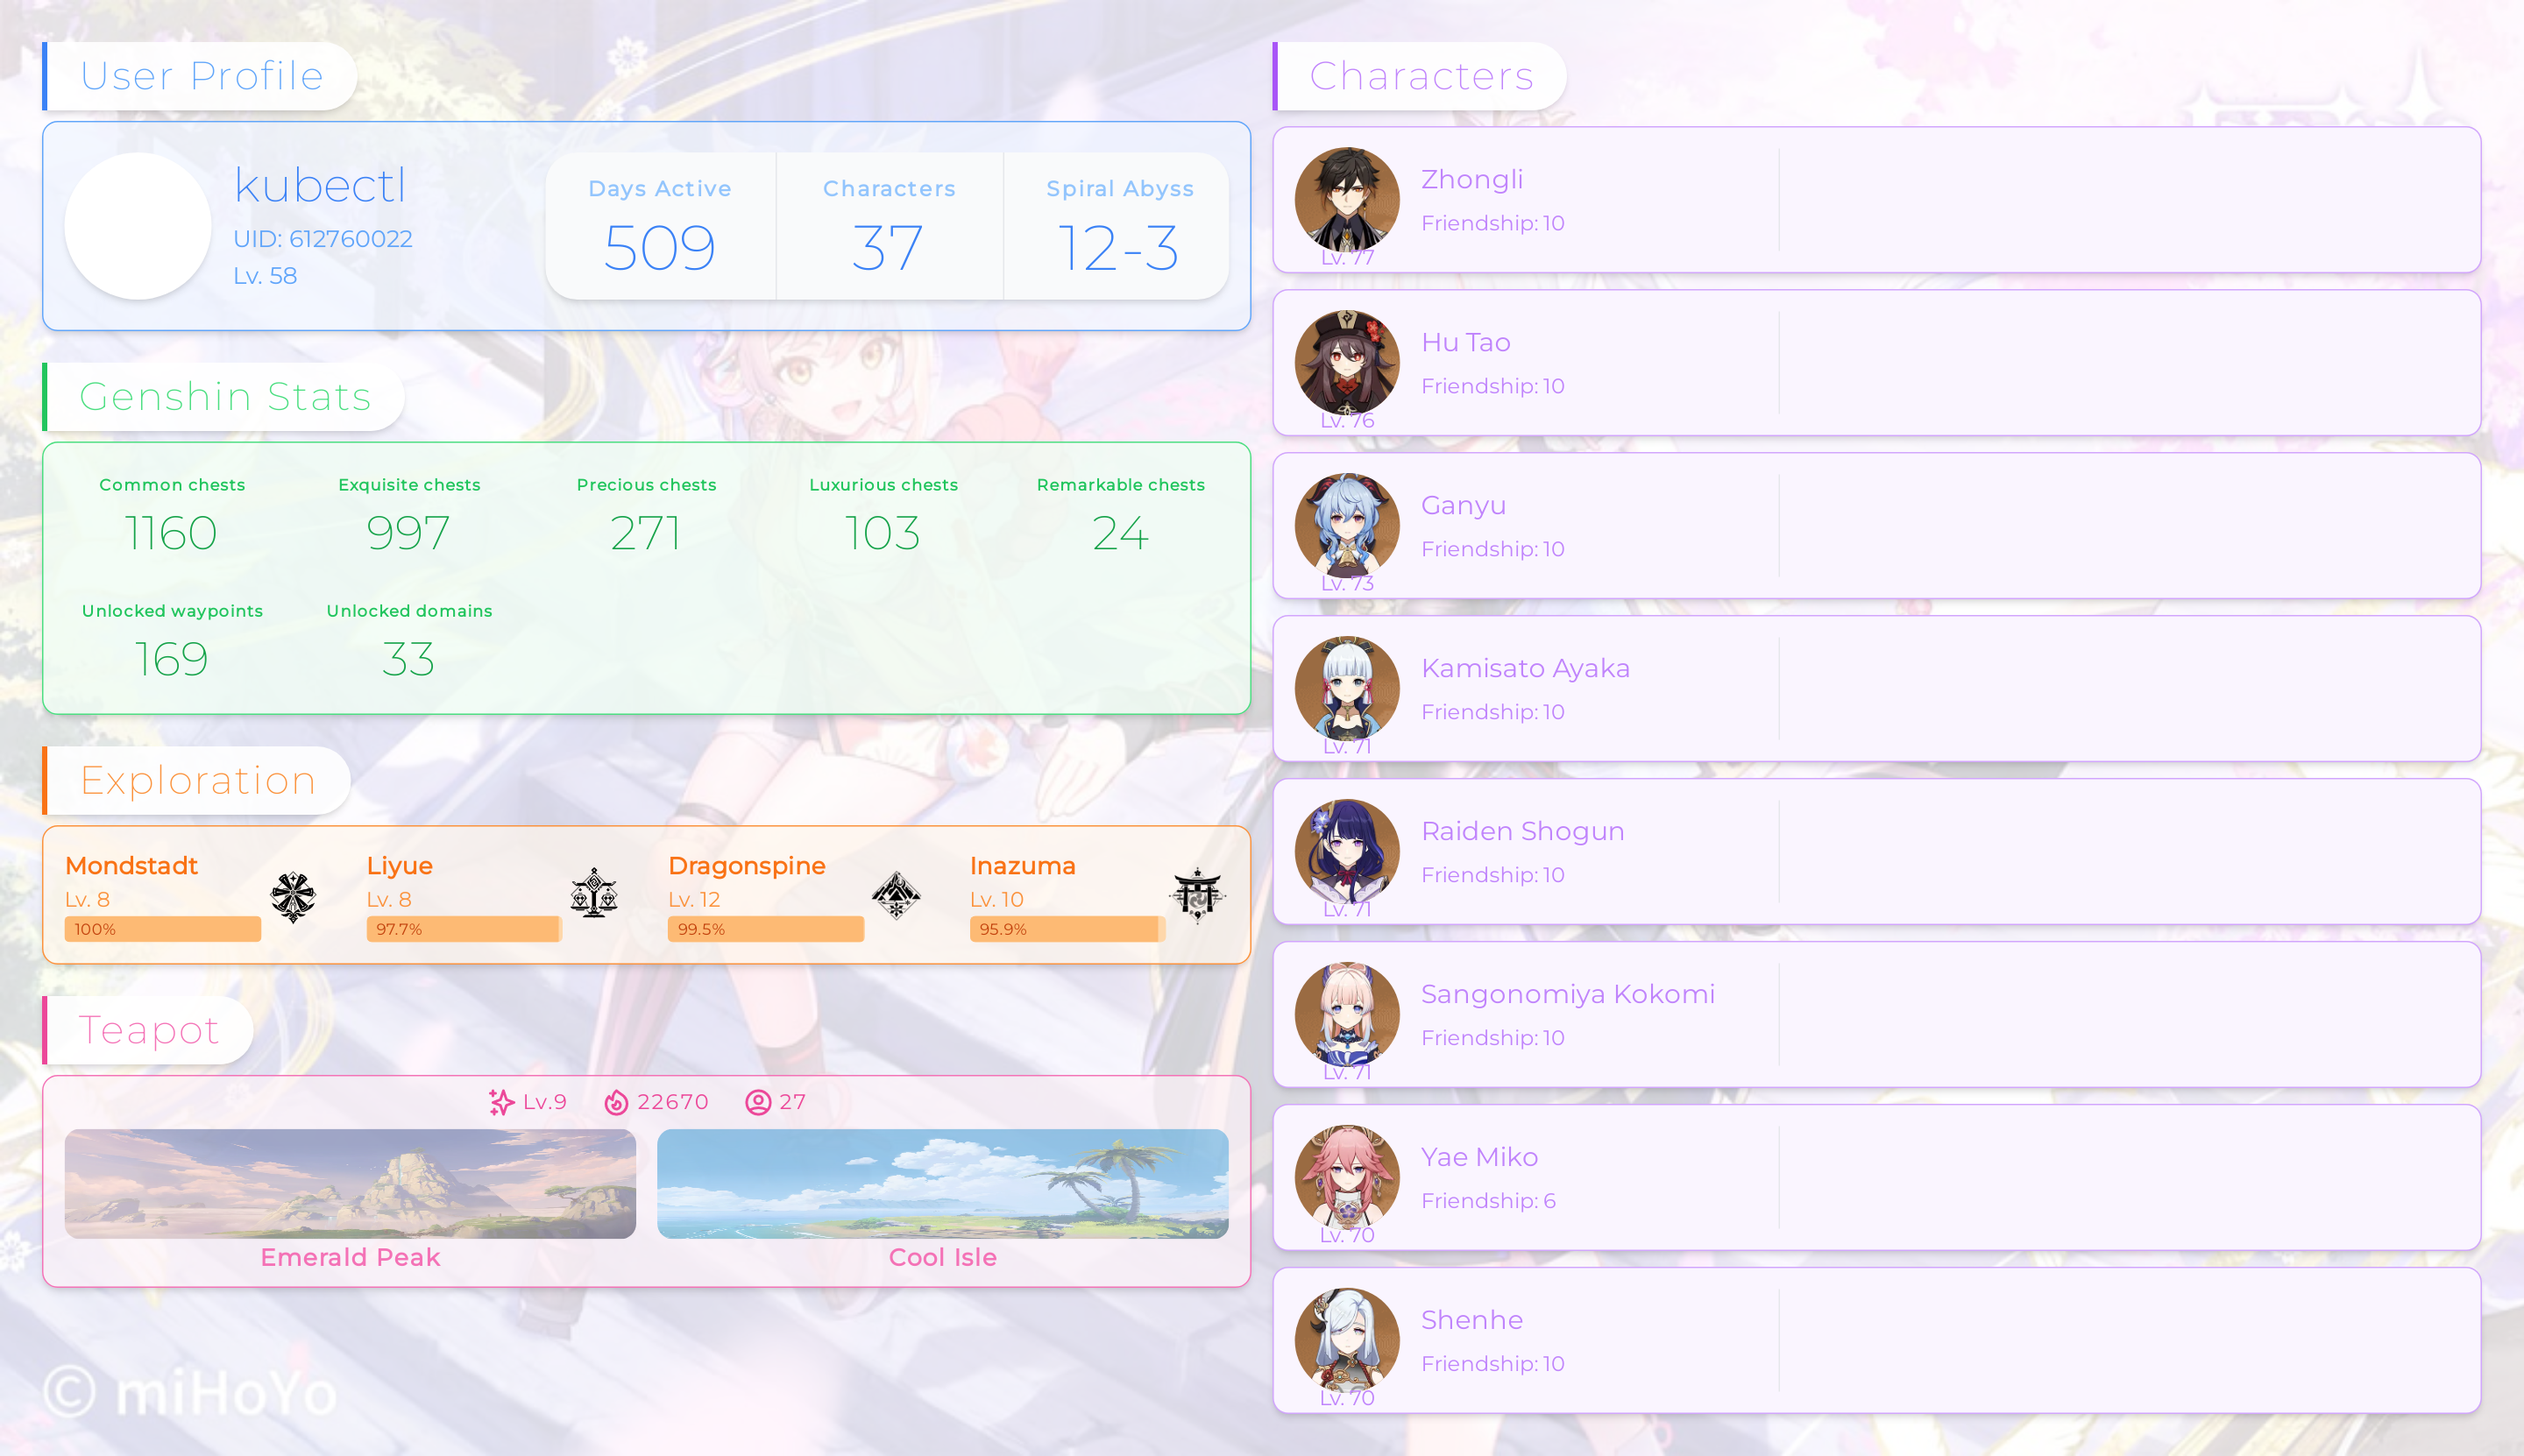
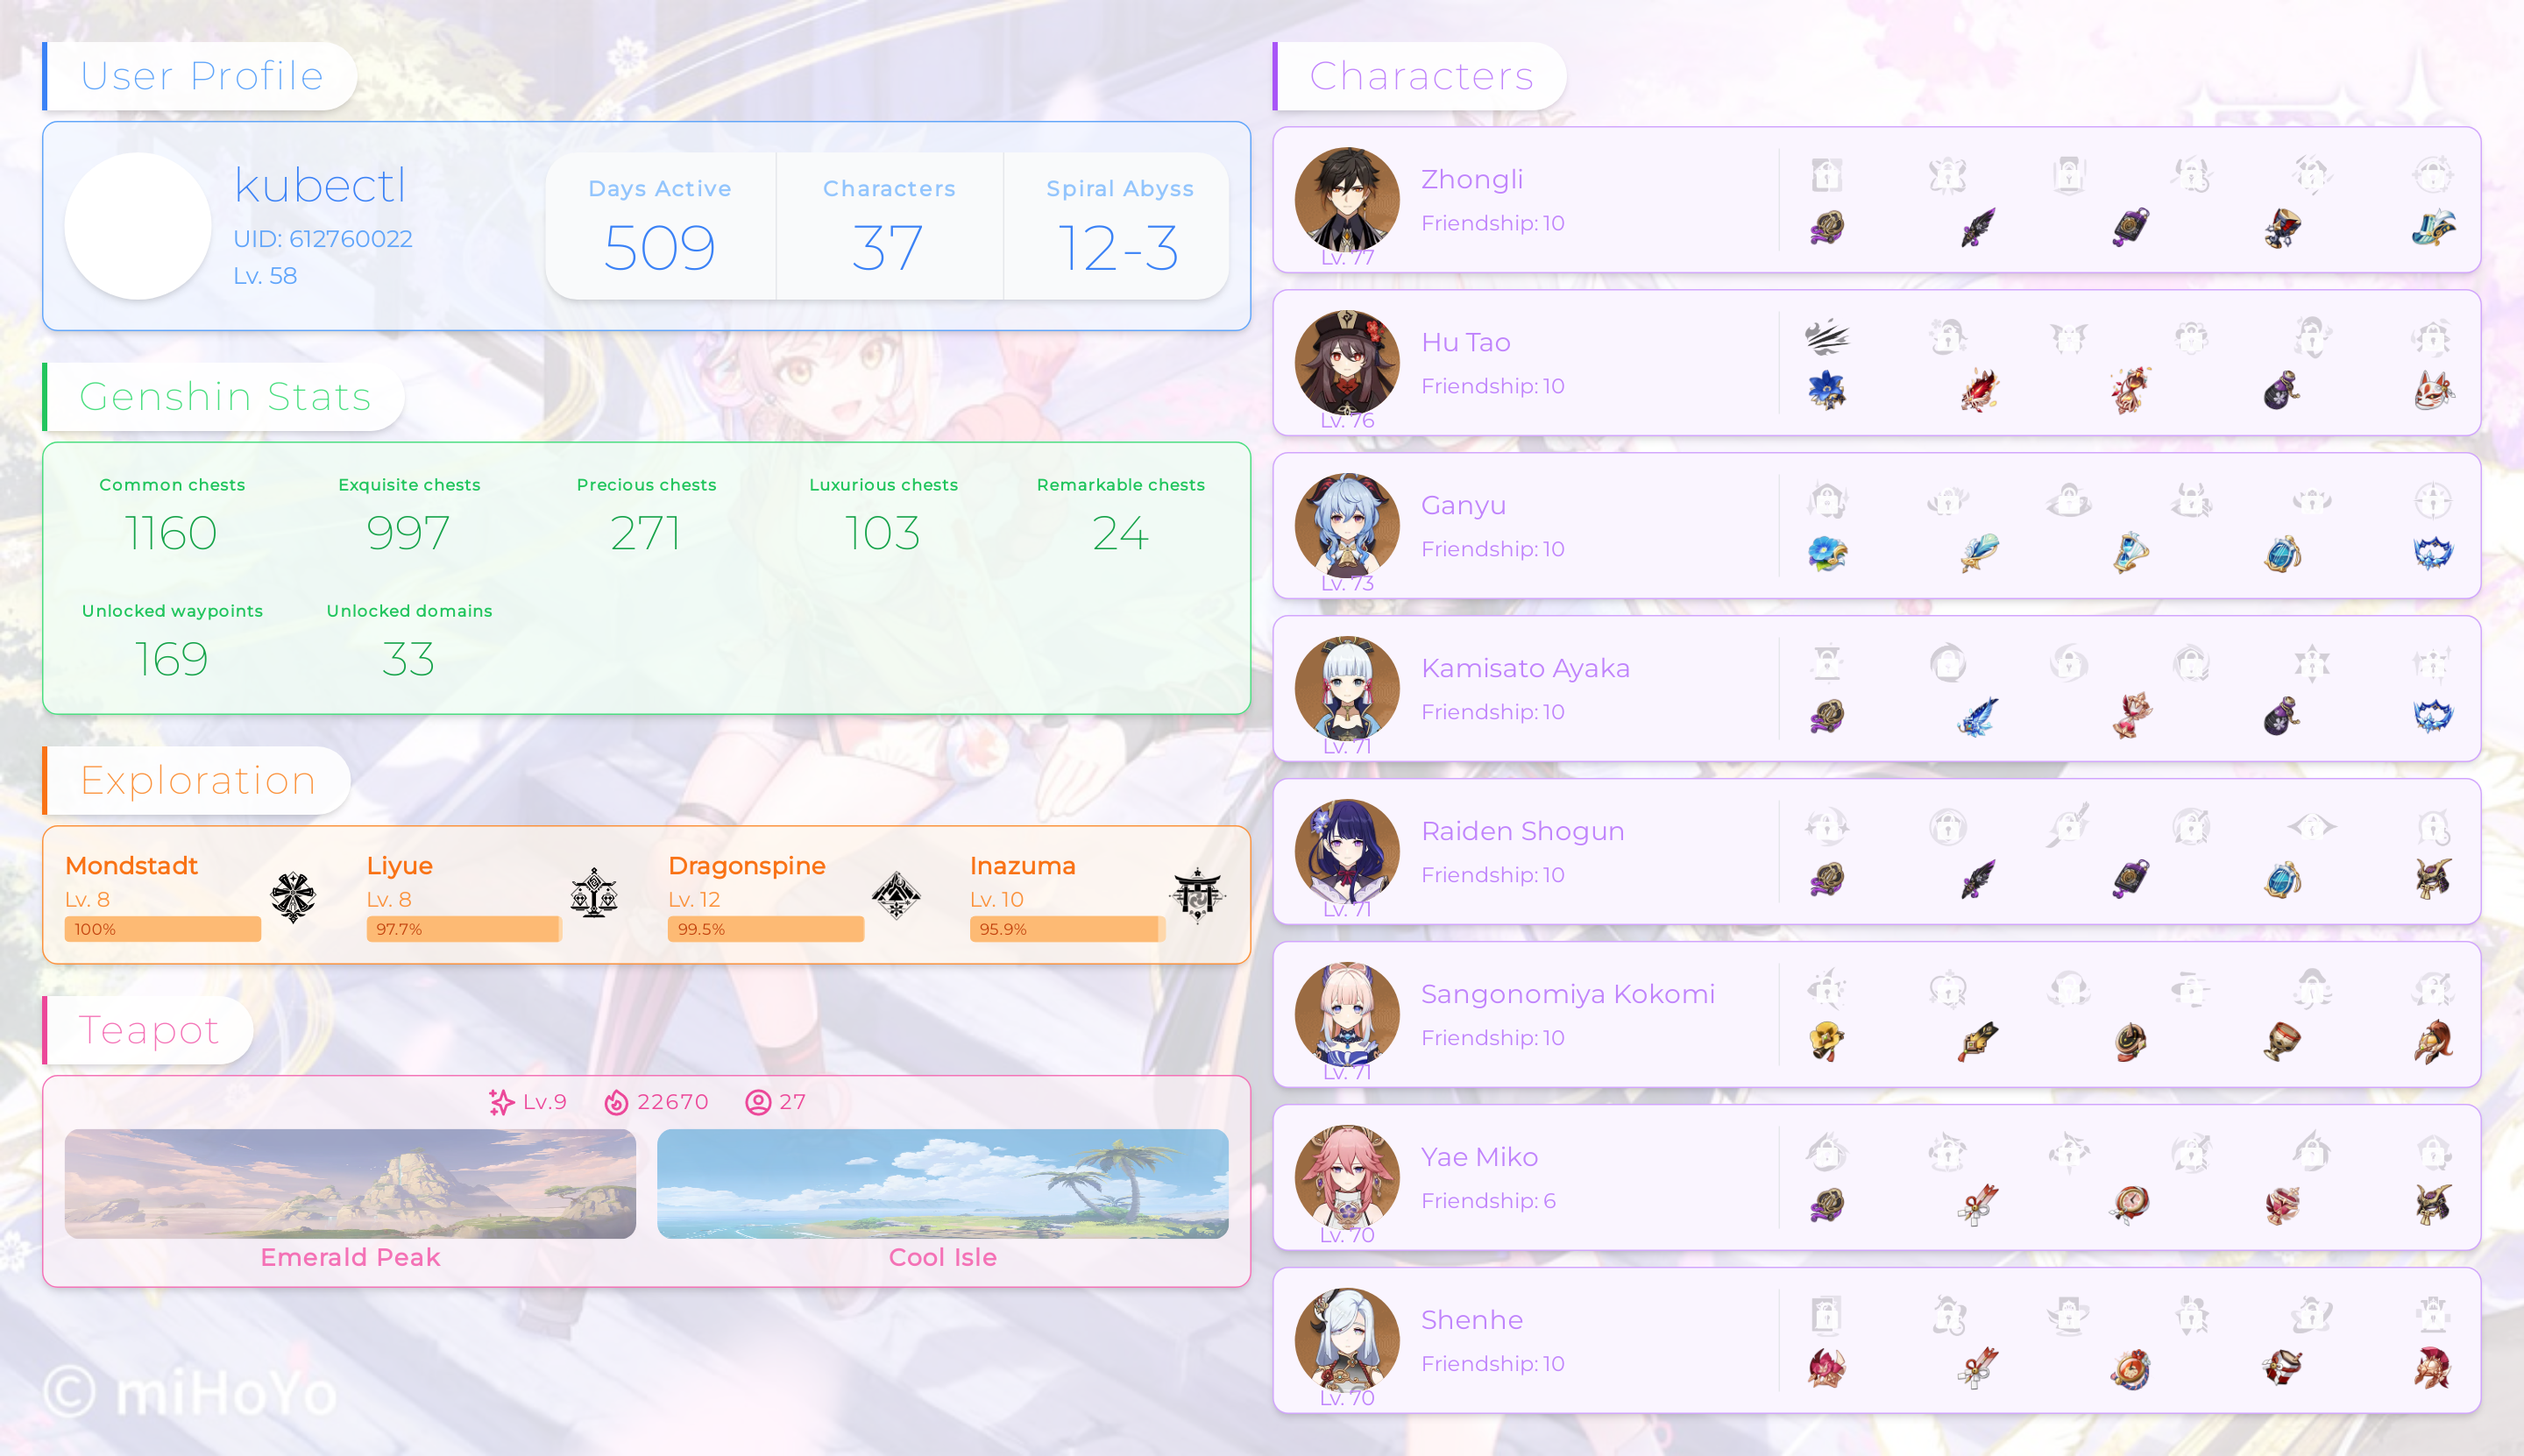
[feat] character card

diff --git a/pages/index.tsx b/pages/index.tsx
@@ -12,7 +12,6 @@ import * as yup from "yup";
 
 import * as models from "../lib/models";
 import { cardSchema } from "../lib/validators/card";
-import { loadavg } from "os";
 
 const CardPage: NextPage = (
   props: InferGetServerSidePropsType<typeof getServerSideProps>
@@ -404,7 +403,46 @@ const CardPage: NextPage = (
                   {/* Divider */}
                   <div className="border-r h-full"></div>
                   {/* Character cons & artifacts */}
-                  <div></div>
+                  <div className="grow flex flex-col items-center h-full">
+                    {/* cons */}
+                    <div className="flex flex-row justify-between w-full h-full">
+                      {character.constellations.map((constellation, i) => (
+                        <div
+                          key={constellation.name}
+                          className="relative h-10 w-10"
+                        >
+                          <Image
+                            src={constellation.icon}
+                            alt={constellation.name}
+                            layout="fill"
+                            className={`w-full h-full invert
+                              ${constellation.activated ? "" : "opacity-20"}`}
+                          />
+                          <img
+                            src={backgroundByConstellationActive(false)}
+                            alt={"cons lock"}
+                            className={`h-1/2 w-1/2 opacity-90 absolute left-1/2 top-1/2 -translate-x-1/2 -translate-y-1/2
+                              ${constellation.activated ? "hidden" : ""}`}
+                          />
+                        </div>
+                      ))}
+                    </div>
+                    {/* Artifacts */}
+                    <div className="flex flex-row justify-between w-full h-full">
+                      {fillInEmptyArtifacts(character.artifacts).map(
+                        (artifact, i) => (
+                          <div key={`${i}`} className="relative w-10 h-10">
+                            <Image
+                              src={artifact.icon}
+                              alt="artifact"
+                              layout="fill"
+                              className="w-full h-full"
+                            />
+                          </div>
+                        )
+                      )}
+                    </div>
+                  </div>
                 </div>
               </div>
             ))}
@@ -463,6 +501,35 @@ function takeMultipleOf<T>(arr: Array<T>, value: number): Array<T> {
   return arr.slice(0, takeN);
 }
 
+function fillInEmptyArtifacts(arr: models.Artifact[]): models.Artifact[] {
+  const icons = [
[5 lines of base64/hex data omitted]
+  ];
+  return Array(5)
+    .fill(0)
+    .map((_, i) => {
+      const cons: models.Artifact[] = arr.filter((cons) => cons.pos === i + 1);
+      if (cons.length > 0) {
+        return cons[0];
+      }
+      const ar: models.Artifact = {
+        id: 0,
+        icon: icons[i],
+        name: "",
+        pos_name: "",
+        pos: i + 1,
+        rarity: 0,
+        level: 0,
+        set: null,
+      };
+      return ar;
+    });
+}
+
 function backgroundByRarity(value: number) {
   switch (value) {
     case 5:
@@ -471,6 +538,14 @@ function backgroundByRarity(value: number) {
[1 lines of base64/hex data omitted]
   }
   return "url()";
+}
+
+function backgroundByConstellationActive(isActive: boolean): string {
+  switch (isActive) {
+    case false:
[1 lines of base64/hex data omitted]
+  }
+  return "";
 }
 
 export default CardPage;

diff --git a/lib/models/character.ts b/lib/models/character.ts
@@ -1,5 +1,32 @@
 import * as yup from "yup";
 
+const artifactSchema = yup.object({
+  id: yup.number().default(0),
+  icon: yup.string().url().default(""),
+  name: yup.string().default(""),
+  pos_name: yup.string().default(""),
+  pos: yup.number().default(0),
+  rarity: yup.number().default(0),
+  level: yup.number().default(0),
+  set: yup
+    .object({
+      id: yup.number().default(0),
+      name: yup.string().default(""),
+    })
+    .default({})
+    .nullable(),
+});
+
+const constellation = yup.object({
+  id: yup.number().default(0),
+  icon: yup.string().url().default(""),
+  pos: yup.number().default(0),
+  name: yup.string().default(""),
+  effect: yup.string().default(""),
+  activated: yup.boolean().default(false),
+  scaling: yup.boolean().default(true),
+});
+
 export const characterSchema = yup.object({
   id: yup.number().required(),
   name: yup.string().default(""),
@@ -10,6 +37,10 @@ export const characterSchema = yup.object({
   collab: yup.boolean().default(false),
   level: yup.number().default(0),
   friendship: yup.number().default(1),
+  artifacts: yup.array(artifactSchema).default([]),
+  constellations: yup.array(constellation).default([]),
 });
 
 export interface Character extends yup.InferType<typeof characterSchema> {}
+
+export interface Artifact extends yup.InferType<typeof artifactSchema> {}

diff --git a/lib/models/index.ts b/lib/models/index.ts
@@ -1,5 +1,5 @@
 export type { UserProfile } from "./user-profile";
-export type { Character } from "./character";
+export type { Character, Artifact } from "./character";
 export type { GameStats } from "./game-stats";
 export type { Exploration } from "./exploration";
 export type { TeapotRealm, Teapot } from "./teapot";
